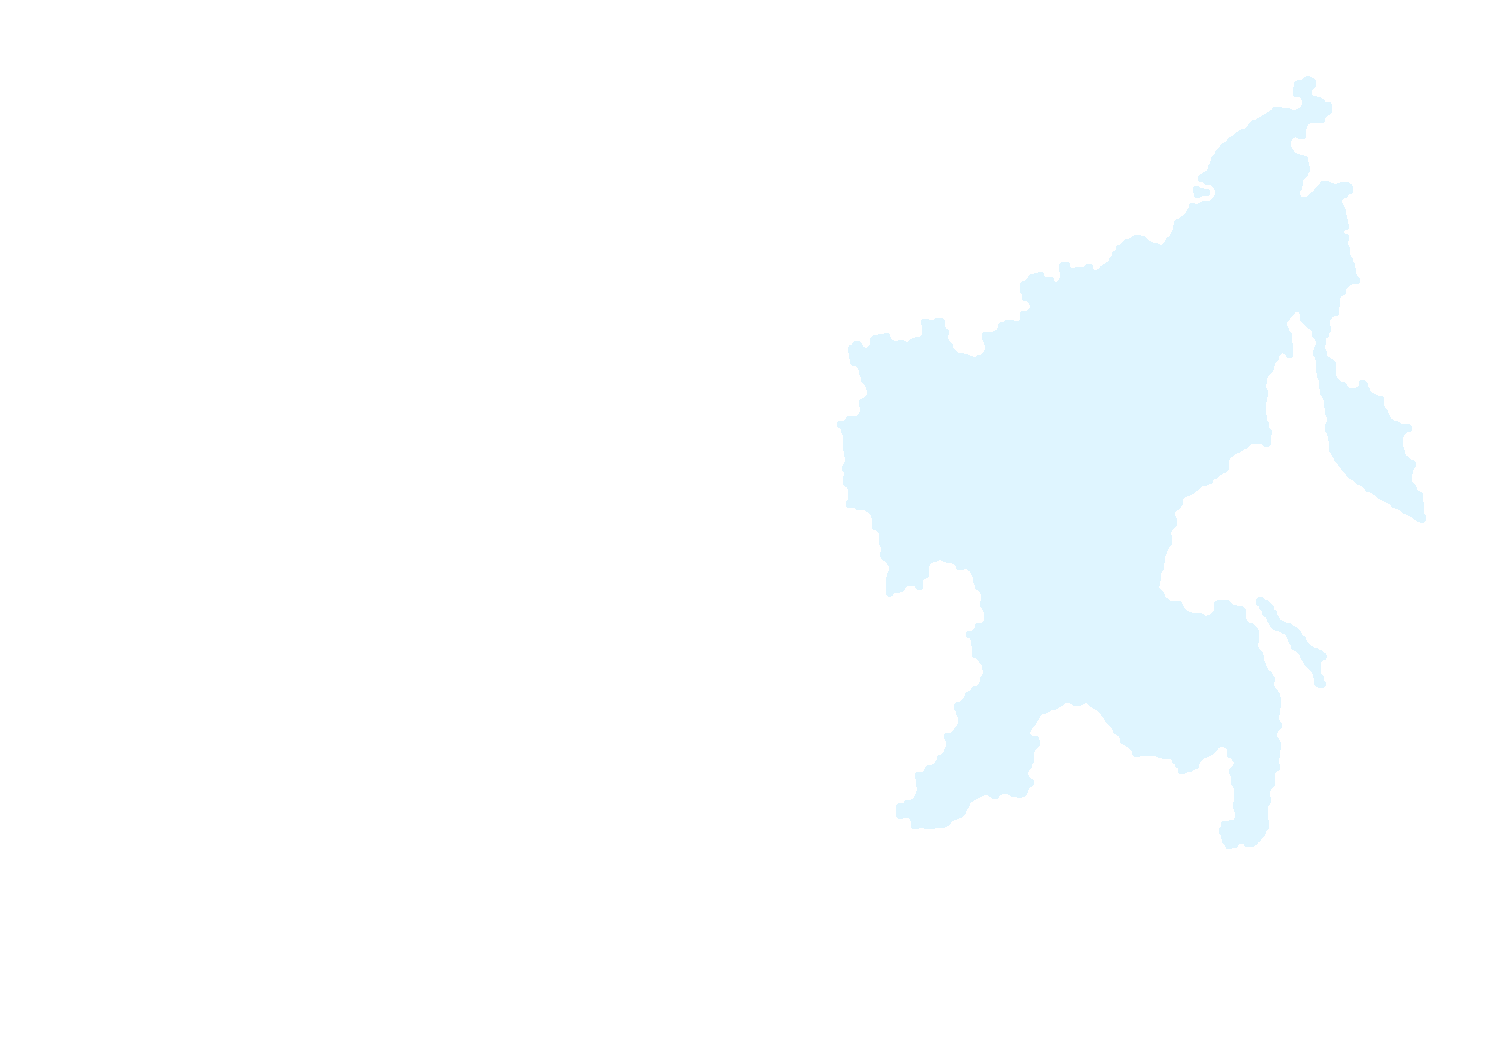
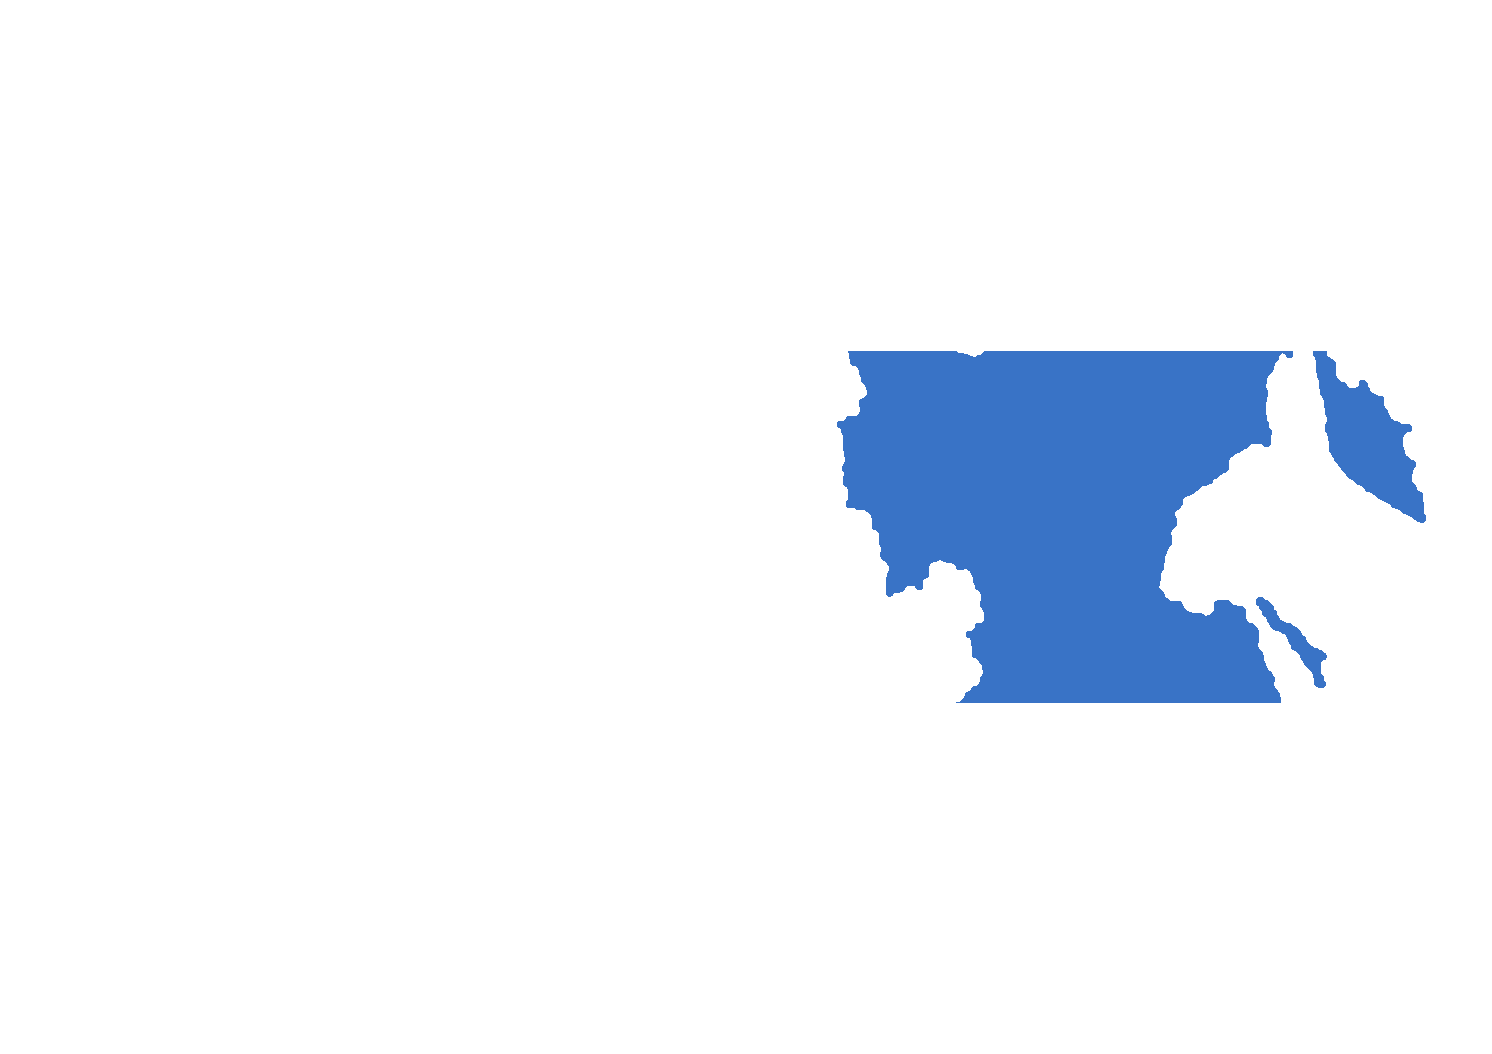
feat: render completed campaign as free Russia flag

Changed region(s): [[0.555, 0.0607, 0.9558, 0.8197]]

diff --git a/index.html b/index.html
@@ -11,7 +11,7 @@
 
   <script>
     (() => {
-      const version = '0.4.274';
+      const version = '0.4.275';
       const script = document.createElement('script');
       script.src = `src/game.bundle.js?v=${version}`;
       script.async = false;

diff --git a/src/game.bundle.js b/src/game.bundle.js
@@ -6,7 +6,7 @@
 
 /* ===== src/config.js ===== */
 const GAME_CONFIG = {
-  "buildVersion": "0.4.274",
+  "buildVersion": "0.4.275",
   "width": 1280,
   "height": 720,
   "targetFPS": 60,

diff --git a/src/config.js b/src/config.js
@@ -1,5 +1,5 @@
 const GAME_CONFIG = {
-  "buildVersion": "0.4.274",
+  "buildVersion": "0.4.275",
   "width": 1280,
   "height": 720,
   "targetFPS": 60,
